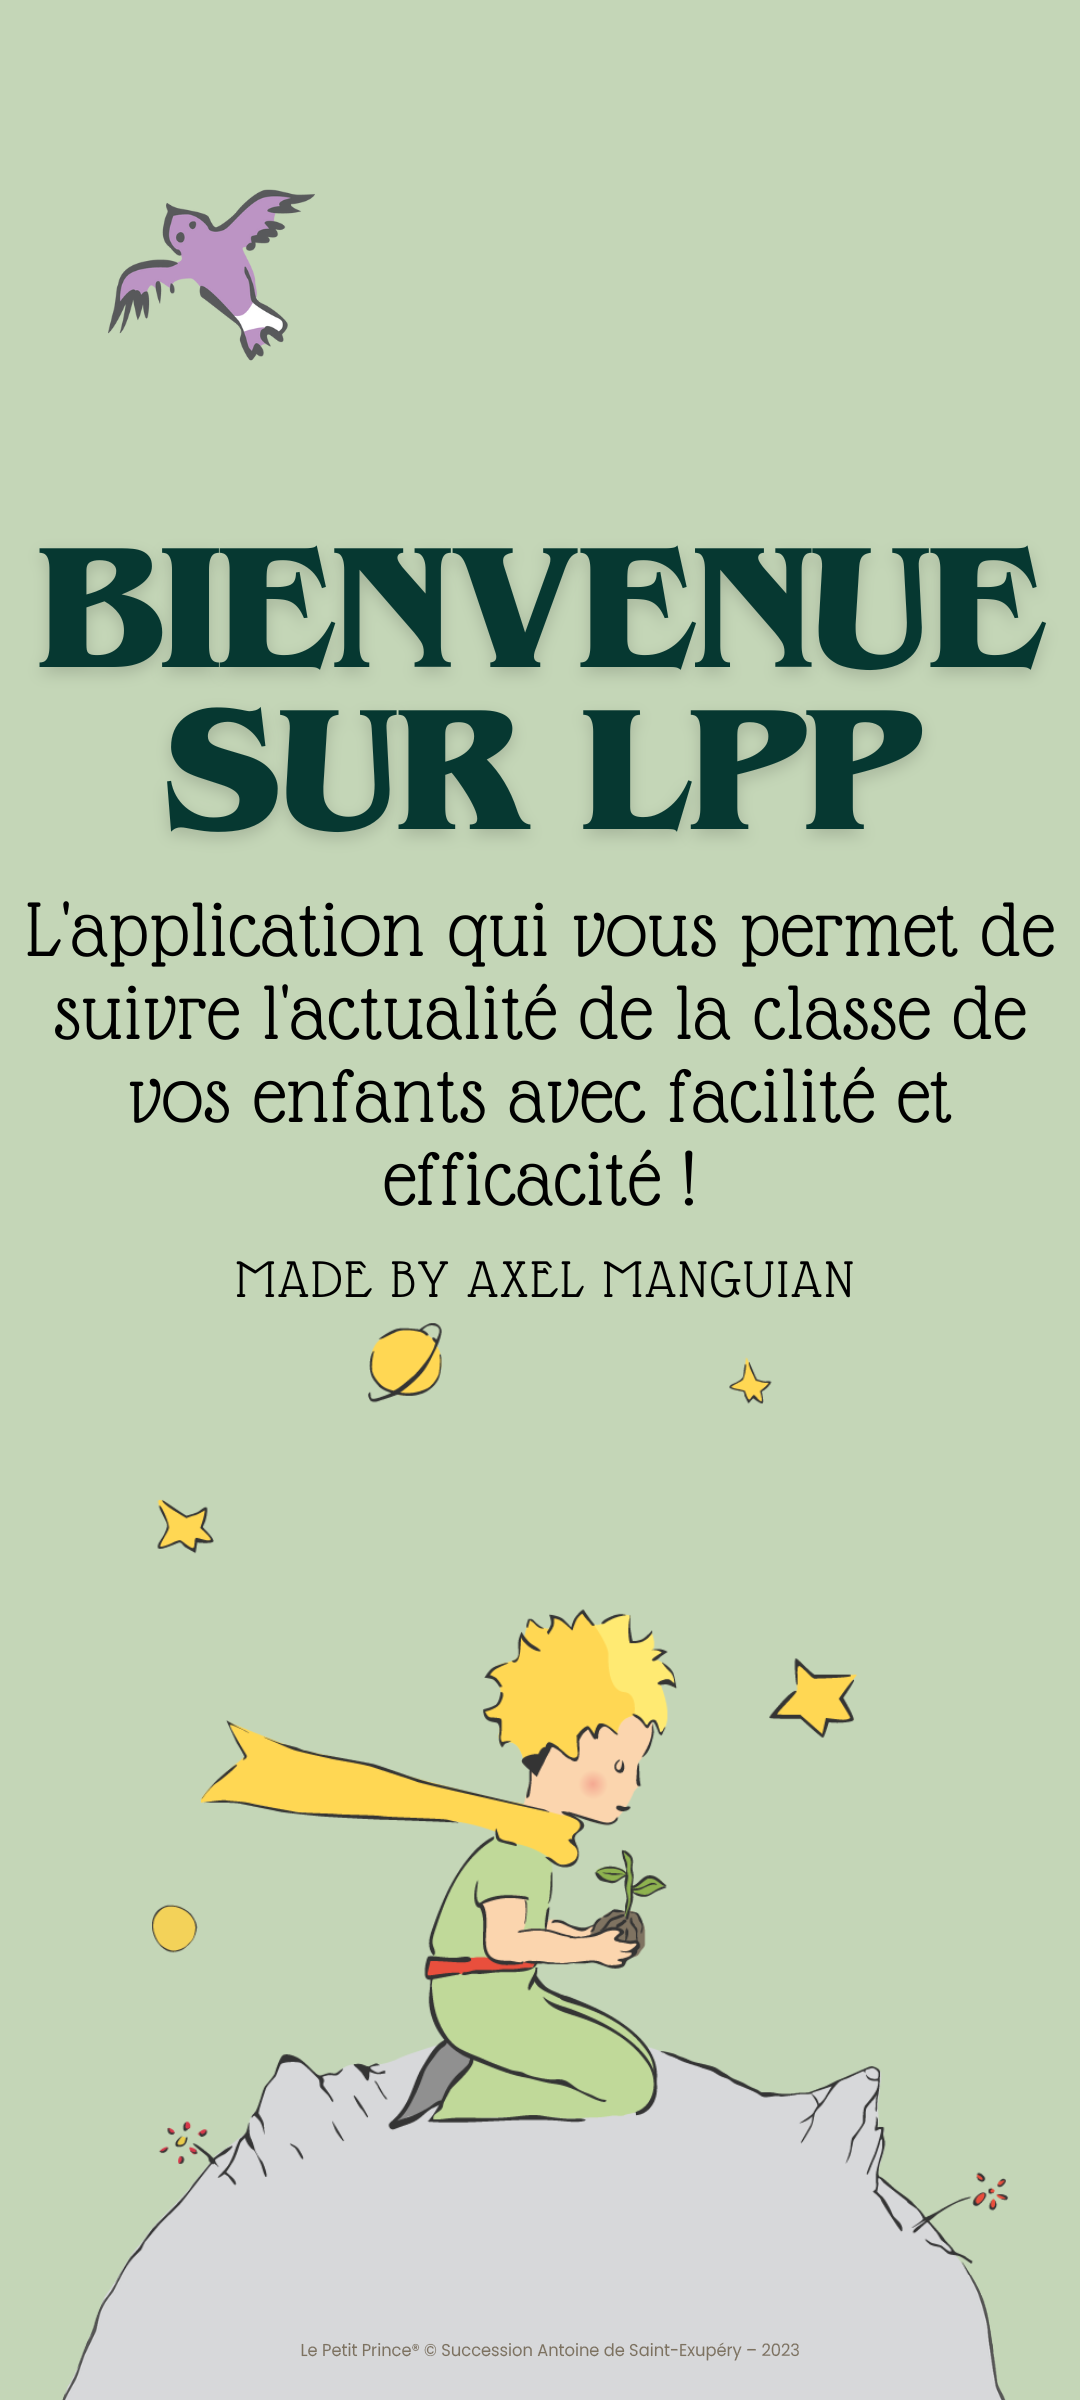
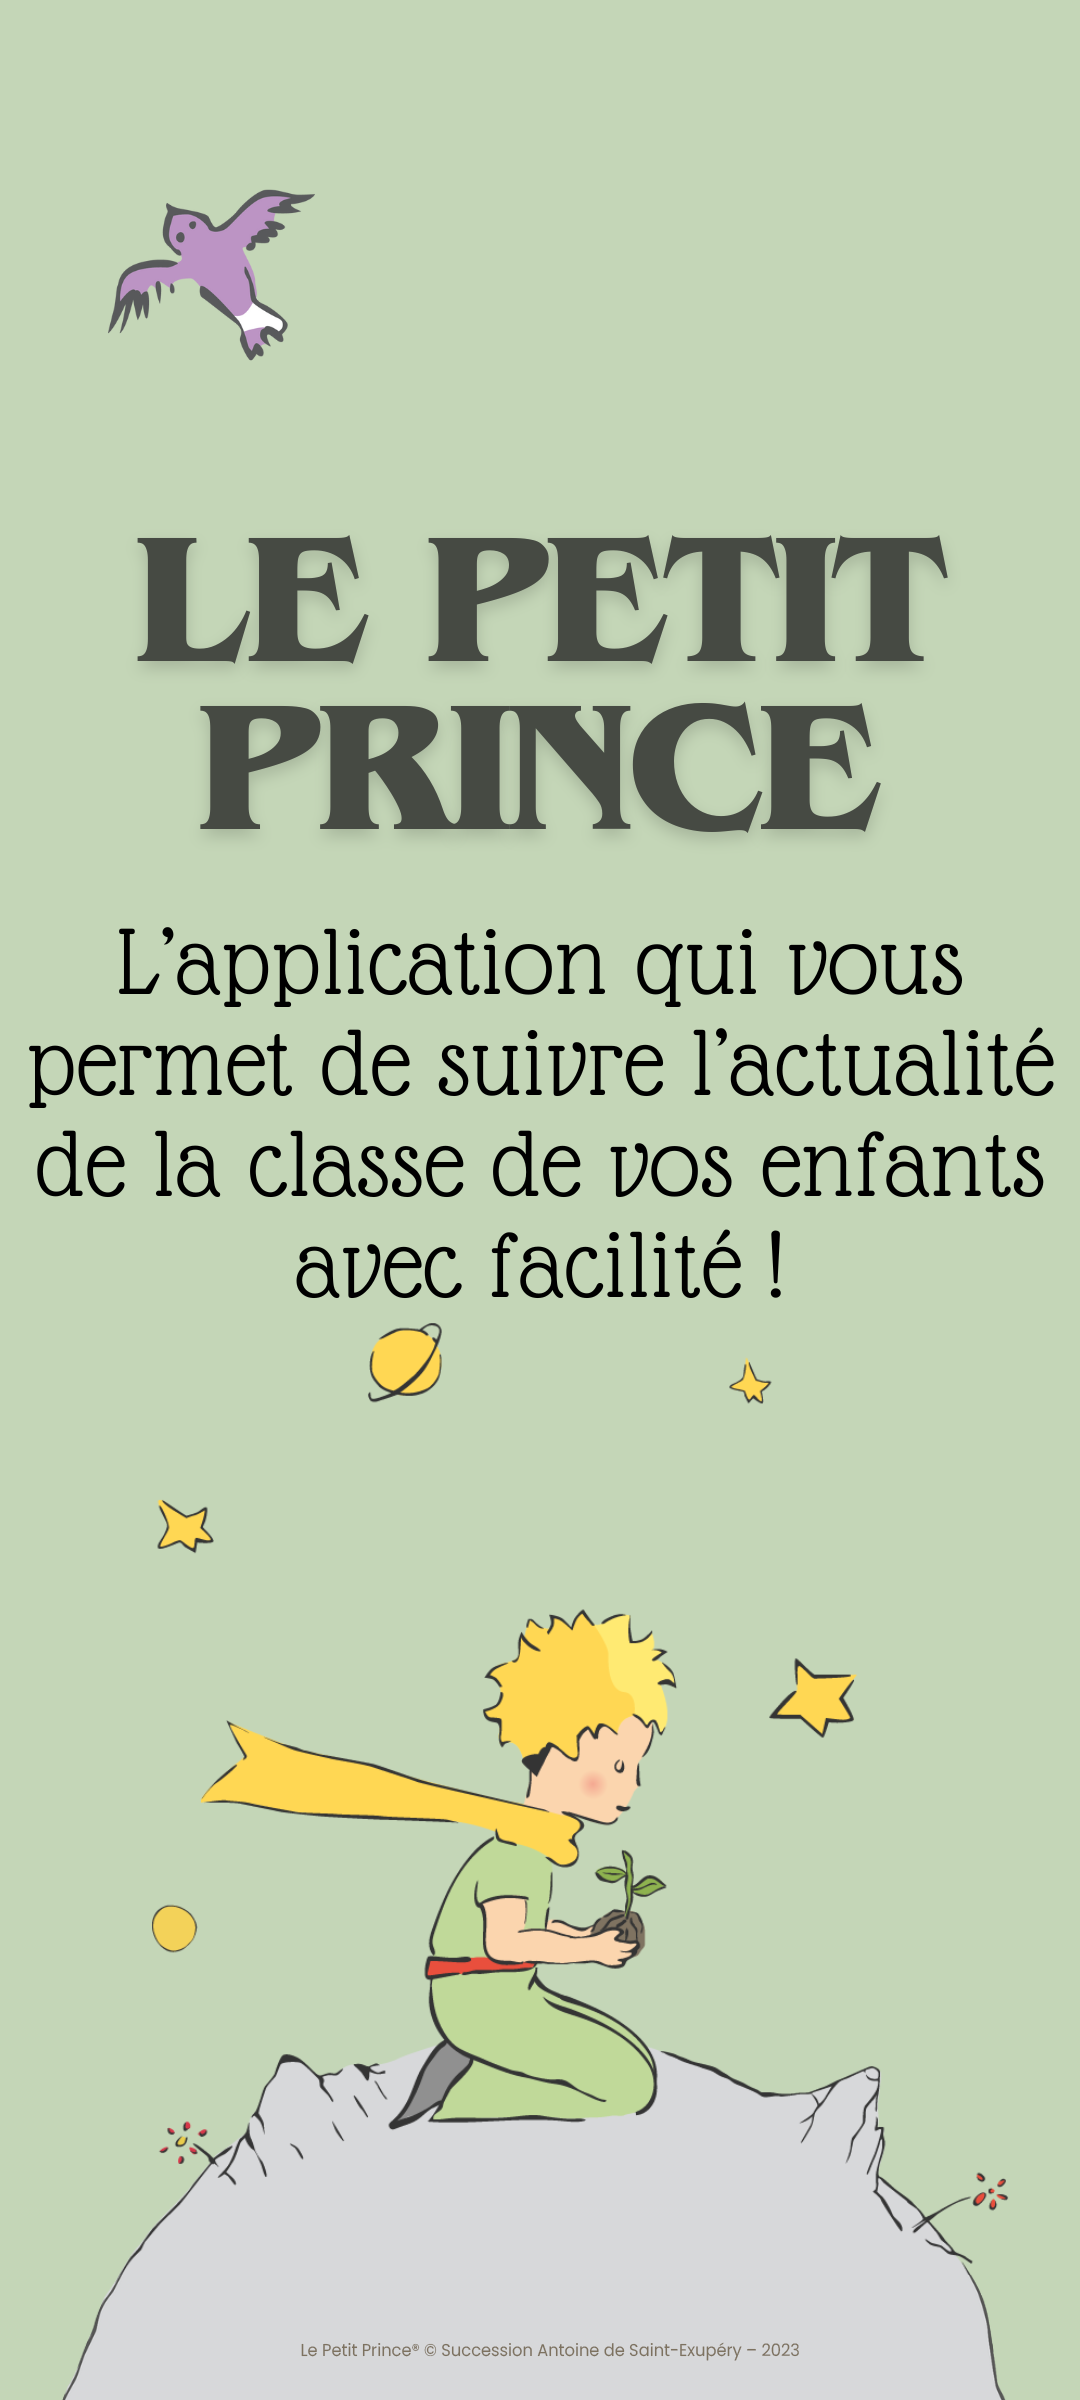
Incorrect login fix json answer

Changed region(s): [[0.0306, 0.375, 0.9778, 0.5625], [0.0306, 0.2188, 0.9778, 0.3438], [0.7639, 0.5312, 0.7944, 0.5625]]

diff --git a/src/app/login/login.page.ts b/src/app/login/login.page.ts
@@ -4,19 +4,19 @@ import { ToastController } from '@ionic/angular';
 
 import { AuthService } from '../AuthService.page';
 import { IonicModule } from '@ionic/angular';
-import { FormsModule } from '@angular/forms'; // Ajout du module FormsModule
+import { FormsModule } from '@angular/forms'; 
 
 @Component({
   selector: 'app-login',
   templateUrl: './login.page.html',
   styleUrls: ['./login.page.scss'],
   standalone: true,
-  imports: [IonicModule, FormsModule], // Ajout du module FormsModule
+  imports: [IonicModule, FormsModule], 
 })
 export class LoginPage implements OnInit {
   login: string = '';
   password: string = '';
-  rememberMe: boolean = false; // Ajoutez cette variable pour suivre l'état de la case à cocher "Rester connecté"
+  rememberMe: boolean = false; 
 
   constructor(
     private navCtrl: NavController,
@@ -52,6 +52,7 @@ export class LoginPage implements OnInit {
     if (data.resultat === 'OK') {
       this.authService.login = this.login;
       this.authService.password = this.password;
+      console.log(data.resultat);
 
       if (this.rememberMe) {
         localStorage.setItem('login', this.login);
@@ -60,8 +61,9 @@ export class LoginPage implements OnInit {
 
       this.navCtrl.navigateForward('/article');
       this.toastValid();
-    } else {
+    } else{
       this.toastInvalid();
+      console.log(data);
     }
   }
 

diff --git a/src/app/tutorial-page/tutorial-page.page.html b/src/app/tutorial-page/tutorial-page.page.html
@@ -1,6 +1,6 @@
 <ion-header [translucent]="true">
   <ion-toolbar>
-    <ion-title>Comment utiliser LPP ?</ion-title>
+    <ion-title>Comment utiliser Le Petit Prince ?</ion-title>
   </ion-toolbar>
 </ion-header>
 
